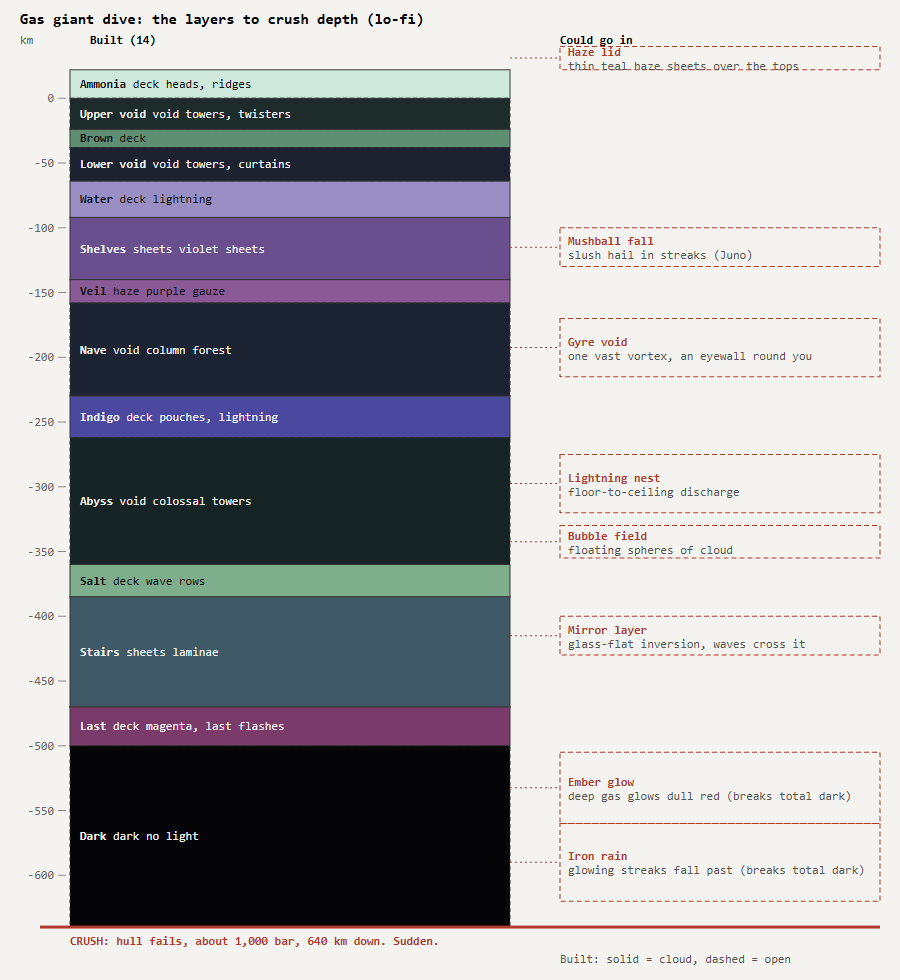
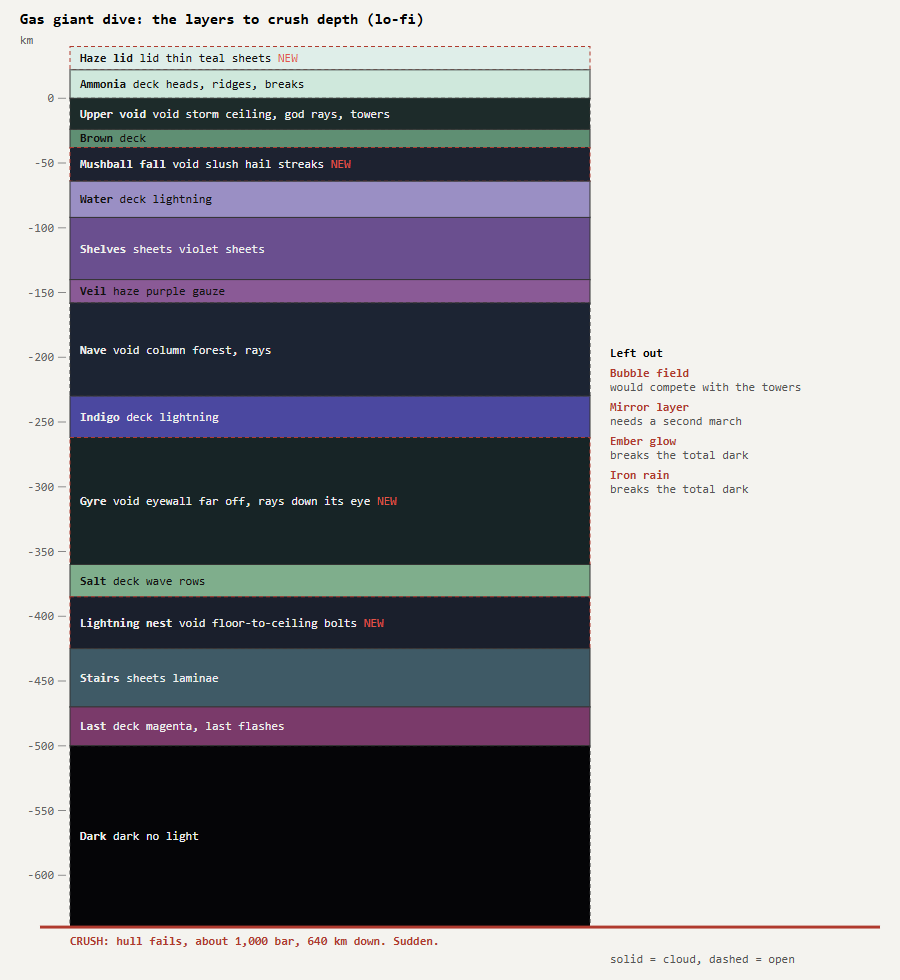
Gas giant dive: four new layers from the proposed stack (Tom: "Okay"). A haze lid of thin teal sheets over the tops. The lower void becomes the mushball fall: slush hail in streaks, in patches. The abyss becomes the gyre: a vast eyewall 440 km ahead, flaring as it rises, feeder bands on the floor, i

diff --git a/gasgiant/clouds.js b/gasgiant/clouds.js
@@ -62,7 +62,7 @@ uniform float uRays;
 ${COMMON}
 ${CLOUDS}
 const float SIG = 1.1;
-const float TOP = 34.0, BOT = -505.0;
+const float TOP = 42.0, BOT = -505.0;
 const vec3 FLASH_C = vec3(0.64, 0.74, 1.0);
 const vec3 SKY_C = vec3(0.07, 0.14, 0.17);
 vec4 lut(float h) { return textureLod(uLut, vec2(clamp((h - LUT_LO) / (LUT_HI - LUT_LO), 0.0, 1.0), 0.5), 0.0); }
@@ -114,6 +114,9 @@ float sheets(float h, float bot, float gap, float thick, float nb, float hole, f
   return (1.0 - smoothstep(th * 0.3, th + 0.4 + lod, abs(y))) * cov;
 }
 float band(float h, float lo, float hi, float w) { return smoothstep(lo - w, lo + w, h) * (1.0 - smoothstep(hi - w, hi + w, h)); }
+// The gyre: a vast vortex in the abyss, its eyewall 280 km across, far ahead.
+const vec2 GY_C = vec2(-120.0, -420.0);
+float gyreEye(vec2 xz) { return 1.0 - smoothstep(110.0, 135.0, length(xz - GY_C)); }
 // A break in a void's ceiling: ragged gaps 20 to 40 km across that drift slowly.
 // The same gap runs through the deck above, so light falls through it.
 // soft widens the edge: light through a thick deck spreads into a penumbra.
@@ -124,14 +127,35 @@ float breakAt(vec2 xz, float seed, float soft) {
 // The void round a height, floor included: its ceiling and its seed. x under -1000 means none.
 vec2 voidOver(float h) {
   return h > -30.0 && h < 0.0 ? vec2(2.0, 3.1) : h > -70.0 && h < -38.0 ? vec2(-38.0, 7.7)
-    : h > -236.0 && h < -158.0 ? vec2(-158.0, 11.3) : h > -366.0 && h < -262.0 ? vec2(-262.0, 5.9) : vec2(-1e4, 0.0);
+    : h > -236.0 && h < -158.0 ? vec2(-158.0, 11.3) : h > -366.0 && h < -262.0 ? vec2(-262.0, 5.9)
+    : h > -431.0 && h < -385.0 ? vec2(-385.0, 9.4) : vec2(-1e4, 0.0);
 }
 // The share of the light from above that reaches p through a break.
 float shaftAt(vec3 p, float h, vec3 ld, vec3 upv, vec2 vo) {
   vec3 q = p + ld * ((vo.x - h) / max(dot(ld, upv), 0.2));
-  return breakAt(q.xz, vo.y, 0.12);
+  // The gyre's eye is open to the deck above.
+  return max(breakAt(q.xz, vo.y, 0.12), vo.y == 5.9 ? gyreEye(q.xz) : 0.0);
 }
 // The light's way down in the decks: slanted to the sun's side.
+// f is the height in the void, 0 at the floor, 1 at the ceiling.
+float gyre(vec3 p, float f) {
+  vec2 q = p.xz - GY_C;
+  float r = length(q);
+  // The wall flares outward as it rises.
+  float Rw = mix(140.0, 200.0, f * f);
+  float res = 0.0;
+  if (r < Rw + 260.0) {
+    // The wall and the bands swirl on angle and log radius, as the storm does.
+    float a = atan(q.y, q.x) + uT * 0.004 - 1.6 * log(r / Rw + 0.05);
+    float sw = textureLod(uVol, vec3(cos(a) * 0.45, f * 0.8 + uT * 0.001, sin(a) * 0.45) + vec3(0.21, 0.0, 0.63), 0.0).r;
+    float wall = smoothstep(Rw + 30.0, Rw + 6.0, r) * smoothstep(Rw - 18.0, Rw - 4.0, r);
+    // Feeder bands: thin spirals that hug the floor.
+    float arm = smoothstep(0.75, 0.92, 0.5 + 0.5 * sin(3.0 * a + 4.0 * sw)) * smoothstep(Rw + 220.0, Rw + 60.0, r)
+      * smoothstep(Rw + 10.0, Rw + 40.0, r) * (1.0 - smoothstep(0.04, 0.14, f));
+    res = max(wall * (0.5 + 0.6 * sw), arm * 0.7 * sw);
+  }
+  return res;
+}
 vec3 deepLight(vec3 upv) { return normalize(upv * 0.75 + normalize(SUN - upv * dot(SUN, upv)) * 0.66); }
 // Storm curtains and rare twisters in a void from flo to cei.
 // cu is the share of storm cells with a curtain; tw the share of curtains with a twister.
@@ -180,7 +204,8 @@ float stormsIn(vec3 p, float h, float flo, float cei, float seed, float cs, floa
 // Density at p, 0 to 1. It sets gAlb, the albedo, and gOpen, how near a top it lies.
 // The branches follow LAYERS in world.js, top down. No cloud lies under -500 km.
 // fine scales the small billows; lod grows with distance.
-float dens(vec3 p, float lod, float fine) {
+// full is 0 for the light taps: they skip the details that cast no shade, so the compiler drops them.
+float dens(vec3 p, float lod, float fine, float full) {
   float h = altOf(p);
   float d = 0.0;
   gAlb = vec3(0.9);
@@ -244,6 +269,12 @@ float dens(vec3 p, float lod, float fine) {
       float sat = clamp(m.b + 0.35 * (1.0 - ao), 0.0, 1.0);
       gAlb = mix(vec3(0.86, 0.9, 0.88), pal(m.g + 0.22 * (n1.a - 0.5) + 0.12 * (n2.a - 0.5)), sat);
       gOpen = clamp(1.0 - (top - h) / 6.0, 0.0, 1.0) * ao;
+      // The haze lid: thin teal sheets over the tops.
+      if (full > 0.5 && h > 20.0) {
+        vec3 hid;
+        float hz = sheets(h, 22.0, 5.5, 0.6, nb, nc.a - 0.05, lod, hid) * 0.015 * band(h, 22.0, 40.0, 2.0);
+        if (hz > d) { d = hz; gAlb = mix(pal(0.45), vec3(0.9), 0.5); gOpen = 1.0; }
+      }
     } else if (h > -24.0) {
       // The upper void: towers stand between the brown floor and the white ceiling.
       d = tower(p, h, -24.0, 2.0, 3.1, nb, 48.0, 0.5, f) * (0.6 + 0.4 * n1.b);
@@ -259,10 +290,17 @@ float dens(vec3 p, float lod, float fine) {
       gAlb = mix(pal(0.34), pal(0.6), n1.a);
       gOpen = clamp(1.0 - (-24.0 - h) / 6.0, 0.0, 1.0);
     } else if (h > -64.0) {
-      // The lower void: darker towers from the water deck to the brown ceiling.
+      // The mushball fall: darker towers, and slush hail falling in streaks.
       d = tower(p, h, -64.0, -38.0, 7.7, nb, 48.0, 0.5, f) * (0.6 + 0.4 * n1.b);
       gAlb = mix(pal(0.95 + 0.15 * n1.a), pal(0.45), f);
       gOpen = f;
+      // The hail falls in patches 50 to 100 km across, at 0.6 km/s.
+      float mp = full > 0.5 ? smoothstep(0.5, 0.75, textureLod(uVol, vec3(p.xz / 220.0, 0.83), 0.0).a) : 0.0;
+      if (mp > 0.0) {
+        float st = textureLod(uVol, vec3(p.x / 2.2, h / 24.0 + uT * 0.025, p.z / 2.2), 0.0).g;
+        float mb = 0.18 * mp * smoothstep(0.62, 0.85, st);
+        if (mb > d) { d = mb; gAlb = vec3(0.85, 0.9, 0.95); gOpen = 0.6; }
+      }
       vd = vec4(-64.0, -38.0, 7.7, 0.95);
       vk = vec4(60.0, 0.15, 0.4, 0.45);
     } else if (h > -92.0) {
@@ -298,27 +336,36 @@ float dens(vec3 p, float lod, float fine) {
       float base = -265.0;
       float sh = min(top - h, (h - base) * 0.8);
       float cov = smoothstep(0.22, 0.42, nc.a + 0.12);
-      d = smoothstep(0.0, 1.2 + lod, sh) * (0.5 + 0.5 * n1.b) * cov * (1.0 - breakAt(p.xz, 5.9, 0.0));
+      d = smoothstep(0.0, 1.2 + lod, sh) * (0.5 + 0.5 * n1.b) * cov * (1.0 - breakAt(p.xz, 5.9, 0.0)) * (1.0 - gyreEye(p.xz));
       gAlb = mix(vec3(0.36, 0.34, 0.74), pal(0.5), 0.35 * n1.a);
       gOpen = clamp(1.0 - (top - h) / 8.0, 0.0, 1.0);
     } else if (h > -360.0) {
-      // The abyss: colossal towers 150 km apart, and a few floating shelves.
+      // The gyre: colossal towers, floating shelves, and a vast eyewall far ahead.
       d = tower(p, h, -360.0, -262.0, 5.9, nb, 150.0, 0.45, f) * (0.55 + 0.45 * n1.b);
       vec3 id;
       float sv = sheets(h, -360.0, 33.0, 1.0, nb, nc.a - 0.25, lod, id);
       gAlb = mix(mix(pal(0.45), pal(0.15), f), pal(1.05 + 0.15 * id.x), step(d, sv));
       d = max(d, sv * 0.8);
+      float gy = full > 0.5 ? gyre(p, f) : 0.0;
+      if (gy > d) { d = gy; gAlb = mix(pal(0.2 + 0.1 * n1.a), vec3(0.95), 0.5); gOpen = 0.8; }
       gOpen = 0.3 + 0.7 * f;
       vd = vec4(-360.0, -262.0, 5.9, 0.15);
       vk = vec4(150.0, 0.18, 0.35, 0.8);
     } else if (h > -385.0) {
       // The salt deck: pale jade, flat, its top in long wave rows.
       float top = -360.0 + 3.0 * sin(qr.x / 9.0 + 4.0 * n1.r) * (0.6 + 0.4 * nb);
-      float base = -385.0 + 3.0 * (nb - 0.5);
+      float base = -388.0;
       float sh = min(top - h, (h - base) * 0.8);
       d = smoothstep(0.0, 1.0 + lod, sh) * (0.6 + 0.4 * n1.b) * smoothstep(0.12, 0.3, nc.a + 0.1);
       gAlb = mix(pal(0.08), pal(0.25), n1.a);
       gOpen = clamp(1.0 - (top - h) / 5.0, 0.0, 1.0);
+    } else if (h > -425.0) {
+      // The lightning nest: thin towers lit from inside by discharge.
+      d = tower(p, h, -425.0, -385.0, 9.4, nb, 40.0, 0.6, f) * (0.55 + 0.45 * n1.b);
+      gAlb = mix(pal(0.6), pal(1.0), f);
+      gOpen = 0.3 + 0.7 * f;
+      vd = vec4(-425.0, -385.0, 9.4, 0.6);
+      vk = vec4(60.0, 0.0, 0.25, 0.1);
     } else if (h > -470.0) {
       // The stairs: thin laminae 9 km apart, teal and violet by turns.
       vec3 id;
@@ -335,7 +382,7 @@ float dens(vec3 p, float lod, float fine) {
       gOpen = clamp(1.0 - (top - h) / 10.0, 0.0, 1.0);
     }
     // One call for every void: the storms in it.
-    if (vk.x > 0.0) {
+    if (full > 0.5 && vk.x > 0.0) {
       // The ceiling is a storm base, after Tornado alley's: deep folded lumps on a warped field,
       // broad rolls, billows on the skin, ragged scud under it.
       // The lumps come from flat maps, so each keeps its shape through its depth.
@@ -357,7 +404,7 @@ float dens(vec3 p, float lod, float fine) {
         sc = smoothstep(0.6, 0.8, n2.r + 0.2 * (n1.b - 0.5)) * band(h, cb - 3.0, cb - 0.3, 0.6) * 0.45;
       }
       float dc = smoothstep(0.0, 0.25 + 0.5 * lod, h - cb) * (0.7 + 0.3 * n1.b);
-      float br = breakAt(p.xz, vd.z, 0.0);
+      float br = max(breakAt(p.xz, vd.z, 0.0), vd.z == 5.9 ? gyreEye(p.xz) : 0.0);
       float dd = max(dc * (1.0 - br), sc * (1.0 - 0.5 * br));
       if (dd > d) {
         d = dd;
@@ -382,7 +429,7 @@ float lightOD(vec3 p, vec3 ld, float lod) {
   float od = 0.0, st = 1.2;
   for (int j = 0; j < 4; j++) {
     p += ld * st;
-    od += dens(p, lod + 1.0, 0.0) * st;
+    od += dens(p, lod + 1.0, 0.0, 0.0) * st;
     st *= 2.6;
   }
   return od;
@@ -397,7 +444,7 @@ void main() {
   float t0 = camH > TOP ? hT.x : 0.0;
   float t1 = hB.x > 0.0 && hB.x < 1e8 ? hB.x : hT.y;
   if (camH > TOP && hT.x > hT.y) t1 = -1.0;
-  bool inWin = camH < TOP + 4.0;
+  bool inWin = camH < 38.0;
   // In a void the window opens to 1,600 km and the steps grow faster.
   float vw = clamp((uWin - 220.0) / 1380.0, 0.0, 1.0);
   float grow = mix(0.012, 0.024, vw), cap = mix(9.0, 30.0, vw);
@@ -419,7 +466,7 @@ void main() {
       float ds = min(inWin ? 0.3 + grow * t : 0.3 + 0.0075 * t, cap + (0.004 + 0.006 * vw) * t) * sk;
       sk = min(1.0, sk * 1.3);
       float lod = clamp(log2(1.0 + t / 120.0), 0.0, 4.0);
-      float dn = dens(p, lod, uFine * (1.0 - smoothstep(1.5, 3.0, lod)));
+      float dn = dens(p, lod, uFine * (1.0 - smoothstep(1.5, 3.0, lod)), 1.0);
       // At the first hit in a deck, step back and come in again at a fifth of the step.
       if (inWin && dn > 0.003 && !refined && ds > 0.5) {
         refined = true;
@@ -478,7 +525,7 @@ void main() {
         // The voids stay clear to the horizon; the gaps between sheets stay fairly clear.
         float mfp = mix(45.0, 170.0, smoothstep(-90.0, 0.0, hg)) + 300.0 * band(hg, -24.0, 0.0, 3.0) + 300.0 * band(hg, -64.0, -38.0, 3.0)
           + 500.0 * band(hg, -230.0, -158.0, 6.0) + 700.0 * band(hg, -360.0, -262.0, 6.0)
-          + 60.0 * band(hg, -140.0, -92.0, 6.0) + 60.0 * band(hg, -470.0, -385.0, 6.0) + 40.0 * step(hg, -500.0);
+          + 60.0 * band(hg, -140.0, -92.0, 6.0) + 60.0 * band(hg, -470.0, -425.0, 6.0) + 300.0 * band(hg, -425.0, -385.0, 3.0) + 40.0 * step(hg, -500.0);
         float sg = 1.0 / (mfp * uTune.w);
         float ag = 1.0 - exp(-sg * ds * 1.6);
         vec3 gs = lut(hg).rgb * vec3(0.38, 0.42, 0.44);
@@ -492,6 +539,16 @@ void main() {
           gs = gs * 0.55 + lut(vo.x + 6.0).rgb * sh * mix(1.0, clPhase(dot(rd, lg)), 0.8) * 4.0 * uRays;
         }
         col += T * gs * ag;
+        // In the lightning nest the bolts show: a jagged channel floor to ceiling, and its glow.
+        float nk = band(hg, -425.0, -385.0, 2.0);
+        if (nk > 0.0) for (int k = 0; k < 4; k++) {
+          vec4 fl = uFlash[k];
+          if (fl.w <= 0.0) continue;
+          vec2 jg = vec2(1.4 * sin(hg * 1.7 + fl.x) + 0.6 * sin(hg * 4.3), 1.4 * cos(hg * 1.3 + fl.z) + 0.6 * sin(hg * 3.7 + 1.0));
+          vec2 cq = p.xz - fl.xz - jg;
+          vec3 fq = fl.xyz - p;
+          col += T * FLASH_C * fl.w * nk * (2.0 * exp(-dot(cq, cq) / 0.8) + 0.15 * exp(-dot(fq, fq) / 400.0)) * ds * 0.5;
+        }
         T *= 1.0 - ag;
       }
       t += ds * (dn > 0.003 ? 1.0 : 1.6);

diff --git a/gasgiant/world.js b/gasgiant/world.js
@@ -26,21 +26,23 @@ export const ALT_TOP = 260, ALT_DEEP = -640;
 export const bar = h => h > 0 ? Math.exp(-h / 27) : Math.pow(1 - h / 105.6, 3.5);
 
 // The layers, top down, km over the 1 bar level.
-// kind: deck (heaped cloud), void (towers), sheets (thin layers), haze (gauze), dark (clear gas).
+// kind: lid (thin haze over the tops), deck (heaped cloud), void (towers), sheets (thin layers), haze (gauze), dark (clear gas).
 // bolts: lightning starts in it. The march in clouds.js holds the same bounds.
 export const LAYERS = [
+  { id: 'haze lid', kind: 'lid', top: 40, bot: 22 },
   { id: 'ammonia', kind: 'deck', top: 22, bot: 0 },
   { id: 'upper void', kind: 'void', top: 0, bot: -24 },
   { id: 'brown', kind: 'deck', top: -24, bot: -38 },
-  { id: 'lower void', kind: 'void', top: -38, bot: -64 },
+  { id: 'mushball fall', kind: 'void', top: -38, bot: -64 },
   { id: 'water', kind: 'deck', top: -64, bot: -92, bolts: 1 },
   { id: 'shelves', kind: 'sheets', top: -92, bot: -140 },
   { id: 'veil', kind: 'haze', top: -140, bot: -158 },
   { id: 'nave', kind: 'void', top: -158, bot: -230 },
   { id: 'indigo', kind: 'deck', top: -230, bot: -262, bolts: 1 },
-  { id: 'abyss', kind: 'void', top: -262, bot: -360 },
+  { id: 'gyre', kind: 'void', top: -262, bot: -360 },
   { id: 'salt', kind: 'deck', top: -360, bot: -385, bolts: 0.6 },
-  { id: 'stairs', kind: 'sheets', top: -385, bot: -470 },
+  { id: 'lightning nest', kind: 'void', top: -385, bot: -425, bolts: 3 },
+  { id: 'stairs', kind: 'sheets', top: -425, bot: -470 },
   { id: 'last', kind: 'deck', top: -470, bot: -500, bolts: 0.3 },
   { id: 'dark', kind: 'dark', top: -500, bot: -640 },
 ];

diff --git a/docs/toys/gasgiant.md b/docs/toys/gasgiant.md
@@ -21,7 +21,7 @@ Idea 367, group C: fall from orbit past the rings into the cloud bands. Bean `st
 - One descent column. The capsule hangs where the hand lets go; the Depth slider takes it back up.
 - A held dive takes about 3 min 20 s to crush depth: fast in the sky, slow in the decks, a glide through the voids.
 - Units are km and seconds; altitude counts from the 1 bar level. Thunder runs at 1.2 km/s, the speed of sound in hydrogen.
-- No more than three flash starts a second, always. Lightning starts in four decks (water, indigo, salt, last); none under the last deck.
+- No more than three flash starts a second, always. Lightning starts in the water, indigo, salt and last decks and the lightning nest; none under the last deck.
 - The loop runs at full rate while the hand dives, the capsule moves or a flash runs. The bands flow and the storm turns at 30 fps until the toy sleeps.
 
 ## Direction
@@ -34,22 +34,24 @@ Idea 367, group C: fall from orbit past the rings into the cloud bands. Bean `st
 - Everything outside is raymarched. The storm's billows swirl on angle and log radius, as Tornado alley's storm deck does.
 - Near the eye the white deck shows relief at Juno's scale: popcorn heads and folded ridges along the bands, with shaded valleys (Tom, 2026-11-23).
 - Three decks with a void under each of the upper two (Tom, 2026-11-23). Hourglass towers join each floor to its ceiling, far off in the haze.
-- A deep, majestic, abyssal dive with much variance in the layers (Tom, 2026-11-23). Fourteen layers, top down:
+- A deep, majestic, abyssal dive with much variance in the layers (Tom, 2026-11-23). Sixteen layers, top down (diagram: [gasgiant-layers.svg](../plans/gasgiant-layers.svg)):
 
 | km | Layer | Kind |
 |---|---|---|
+| 40 to 22 | Haze lid | Thin teal sheets over the tops |
 | 22 to 0 | Ammonia | White deck, popcorn heads and ridges |
-| 0 to -24 | Upper void | Hourglass towers |
+| 0 to -24 | Upper void | Storm ceiling, god rays, towers, a few twisters |
 | -24 to -38 | Brown | Deck |
-| -38 to -64 | Lower void | Towers |
+| -38 to -64 | Mushball fall | Void: slush hail falls in streaks |
 | -64 to -92 | Water | Deck, lightning |
 | -92 to -140 | Shelves | Violet sheets 16 km apart, some whole, some lace |
 | -140 to -158 | Veil | Purple gauze |
 | -158 to -230 | Nave | A forest of columns 72 km tall |
-| -230 to -262 | Indigo | Heaped deck, pouches under it, lightning |
-| -262 to -360 | Abyss | Colossal towers 150 km apart, floating shelves |
+| -230 to -262 | Indigo | Heaped deck, lightning |
+| -262 to -360 | Gyre | Void: colossal towers, a vast eyewall 440 km off, rays down its eye |
 | -360 to -385 | Salt | Pale jade deck in long wave rows, lightning |
-| -385 to -470 | Stairs | Laminae 9 km apart, teal and violet by turns |
+| -385 to -425 | Lightning nest | Void: floor-to-ceiling bolts, three flash starts a second |
+| -425 to -470 | Stairs | Laminae 9 km apart, teal and violet by turns |
 | -470 to -500 | Last | Dark magenta deck, tall heads, rare lightning |
 | -500 to -640 | Dark | Clear gas; the light fails; the hull fails at -640 |
 

diff --git a/docs/plans/gasgiant.md b/docs/plans/gasgiant.md
@@ -187,6 +187,20 @@ Tom: "we want protruding god rays in the distance and evoke a sense of scale wit
 
 Frame time 7.8 to 7.9 ms in the voids. The march links in 1.9 s on D3D11 (all passes 2.5 s): near the 3 s budget.
 
+### Four new layers (Tom, 2026-11-23: "Okay" to the proposed stack)
+
+| Layer | Build |
+|---|---|
+| Haze lid, 40 to 22 km | Thin teal sheets 5.5 km apart over the tops, density 0.015, so they veil and never hide the deck. |
+| Mushball fall, -38 to -64 | The lower void renamed: slush hail falls at 0.6 km/s in streaks, in patches 50 to 100 km across. It does not yet read in the stills. |
+| Gyre, -262 to -360 | The abyss renamed: an eyewall 280 to 400 km across, 440 km ahead, that flares as it rises and swirls on angle and log radius; thin feeder bands hug the floor; its eye is open to the deck above, so rays fall down it. It does not yet read as a wall in the stills. |
+| Lightning nest, -385 to -425 | A new void: thin towers, three flash starts a second, each bolt a jagged channel floor to ceiling with a glow round it. |
+| Stairs | Now -425 to -470. |
+
+The light taps skip the details that cast no shade, so the compiler drops them: the march links in 2.0 s (it reached 2.8 s). Frame time 7.8 to 7.9 ms.
+
+Next (Tom, 2026-11-23): "let's focus on above dive, first touch with gas giant and the first two layers -- before continuing".
+
 Frame time 7.8 ms median in the voids at -8, -170 and -270 km. March link 0.9 to 1.0 s on D3D11, all passes 1.5 s.
 
 ## 4. Tech

diff --git a/.beans/stimming-vxno--gas-giant-dive-mvp-the-plunge-idea-367.md b/.beans/stimming-vxno--gas-giant-dive-mvp-the-plunge-idea-367.md
@@ -5,7 +5,7 @@ status: in-progress
 type: feature
 priority: normal
 created_at: 2026-11-23T09:38:54Z
-updated_at: 2026-11-23T23:05:00Z
+updated_at: 2026-11-23T23:20:00Z
 parent: stimming-oh7b
 ---
 
@@ -32,6 +32,8 @@ MVP: the plunge from 260 km over the cloud deck to crush depth, 640 km down (Tom
 - [x] Lo-fi diagram of all possible layers to the crush (docs/plans/gasgiant-layers.svg)
 - [x] Dev sheet: go to a layer, free look, light tuning (?dev)
 - [x] Tom, 2026-11-23: god rays through breaks, light pools, scale
+- [x] Tom, 2026-11-23: haze lid, mushball fall, gyre, lightning nest (first pass)
+- [ ] Focus: the dive from above, first touch, the first two layers
 - [ ] More weirdness in the voids
 - [ ] Tom's later pass: the window effects for the deep layers
 - [ ] Record link times, frame times and the session cost
